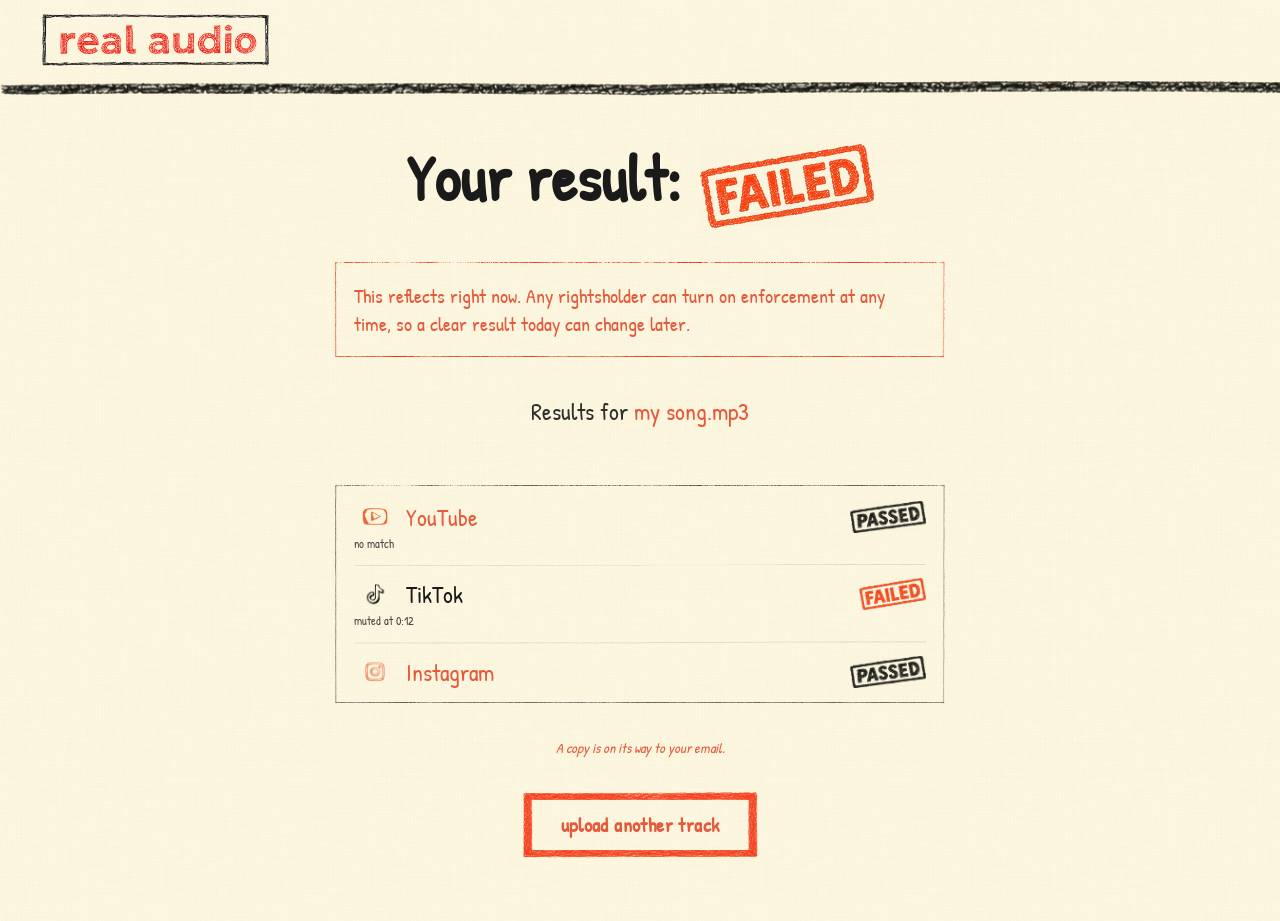
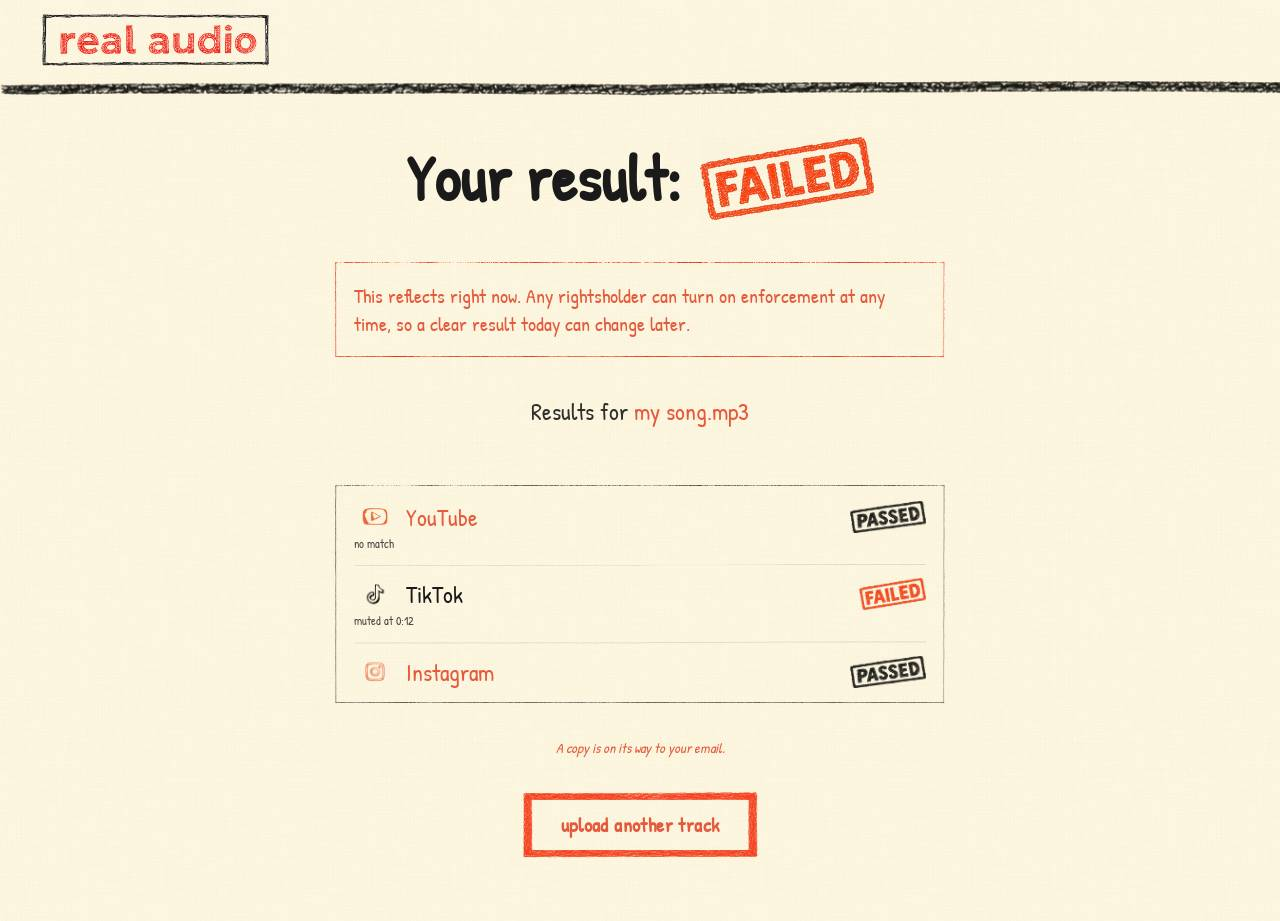
MS-004 fix (Reject4): almost-centre the headline stamp on "Your result:"
The headline stamp sat ~0.14em below the centre of the "Your result:" glyphs
(8.6px at 1280, 6.2px at 375). Lift it 0.12em (position: relative, so the
line doesn't move); it now sits ~1px low at every width. e2e measures the
offset at 375 / 768 / 1280. styles.css cache-bust ms004-r4.

Stamp assets, platform stamps, email, Resend and bot/ untouched.

Changed region(s): [[0.5312, 0.152, 0.6875, 0.2432]]

diff --git a/clearance-check/public/styles.css b/clearance-check/public/styles.css
@@ -438,6 +438,9 @@ h1, h2, h3, p { margin: 0; }
 /* Reject3: PASSED / FAILED stamps (Spencer's art) in the headline and per platform. */
 .stamp { display: inline-block; width: auto; max-width: none; vertical-align: middle; }
 .stamp-headline { height: 1.3em; margin-left: 0.05em; }
+/* Reject4: vertical-align: middle leaves the stamp ~0.14em below the centre of
+   the "Your result:" glyphs; lift it to almost centred without moving the line. */
+.stamp-headline { position: relative; top: -0.12em; }
 .stamp-platform { display: block; height: 32px; }
 .warning { font-size: 20px; line-height: 1.4; color: var(--color-red); }
 /* Landing: same warning box as the result page, form width, above the form. */

diff --git a/clearance-check/public/r/index.html b/clearance-check/public/r/index.html
@@ -9,7 +9,7 @@
   <link rel="preconnect" href="https://fonts.googleapis.com">
   <link rel="preconnect" href="https://fonts.gstatic.com" crossorigin>
   <link href="https://fonts.googleapis.com/css2?family=Patrick+Hand&family=Inter:wght@400;500;600;700&display=swap" rel="stylesheet">
-  <link rel="stylesheet" href="/styles.css?v=ms004-r3">
+  <link rel="stylesheet" href="/styles.css?v=ms004-r4">
   <meta name="robots" content="noindex">
 </head>
 <body>

diff --git a/clearance-check/public/index.html b/clearance-check/public/index.html
@@ -9,7 +9,7 @@
   <link rel="preconnect" href="https://fonts.googleapis.com">
   <link rel="preconnect" href="https://fonts.gstatic.com" crossorigin>
   <link href="https://fonts.googleapis.com/css2?family=Patrick+Hand&family=Inter:wght@400;500;600;700&display=swap" rel="stylesheet">
-  <link rel="stylesheet" href="/styles.css?v=ms004-r3">
+  <link rel="stylesheet" href="/styles.css?v=ms004-r4">
 </head>
 <body>
   <div class="page surface-sketched">
